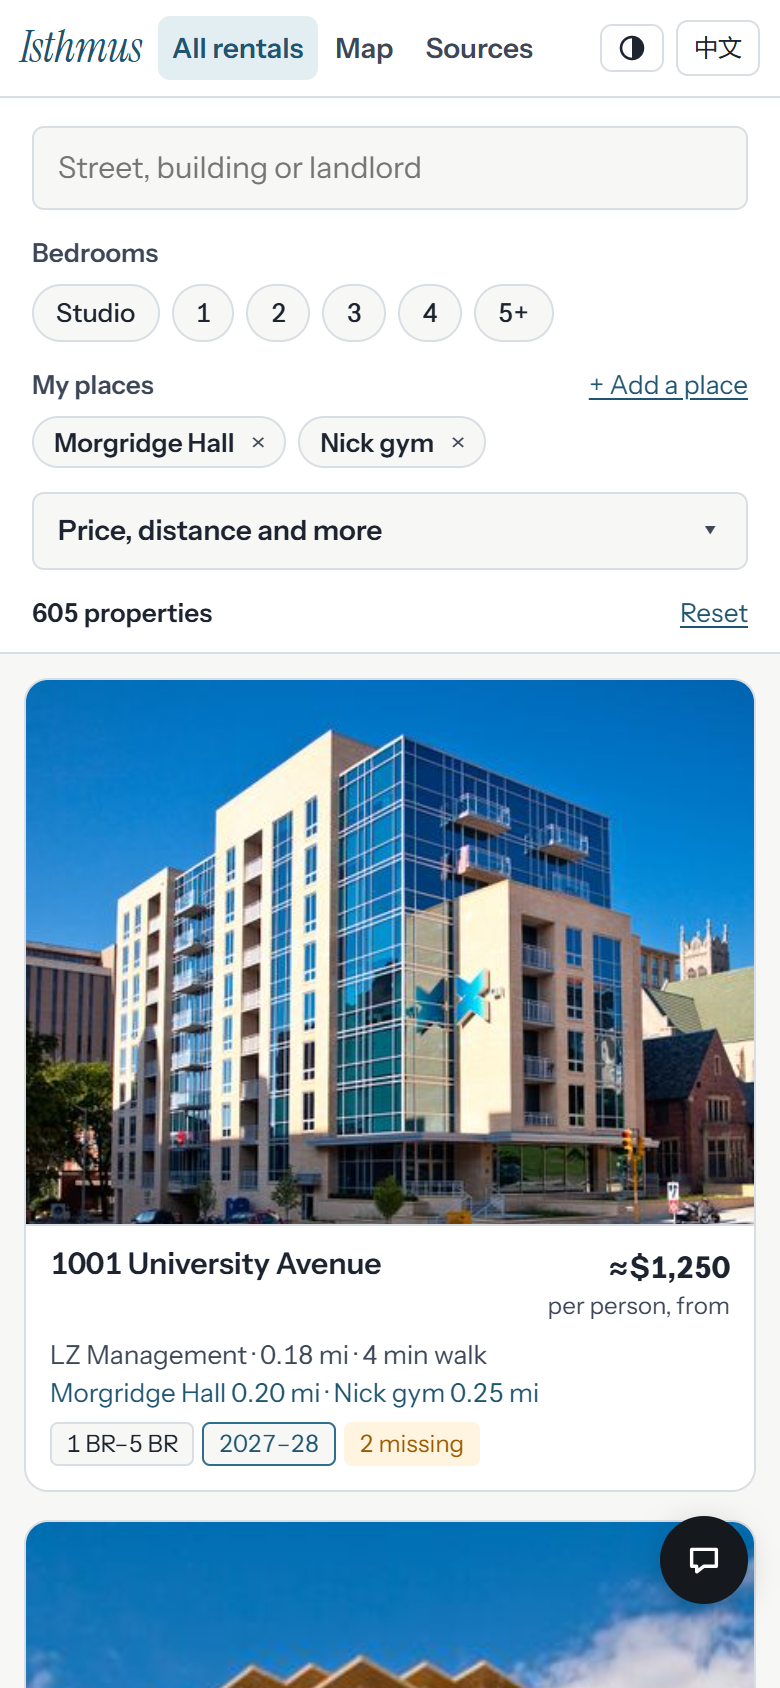
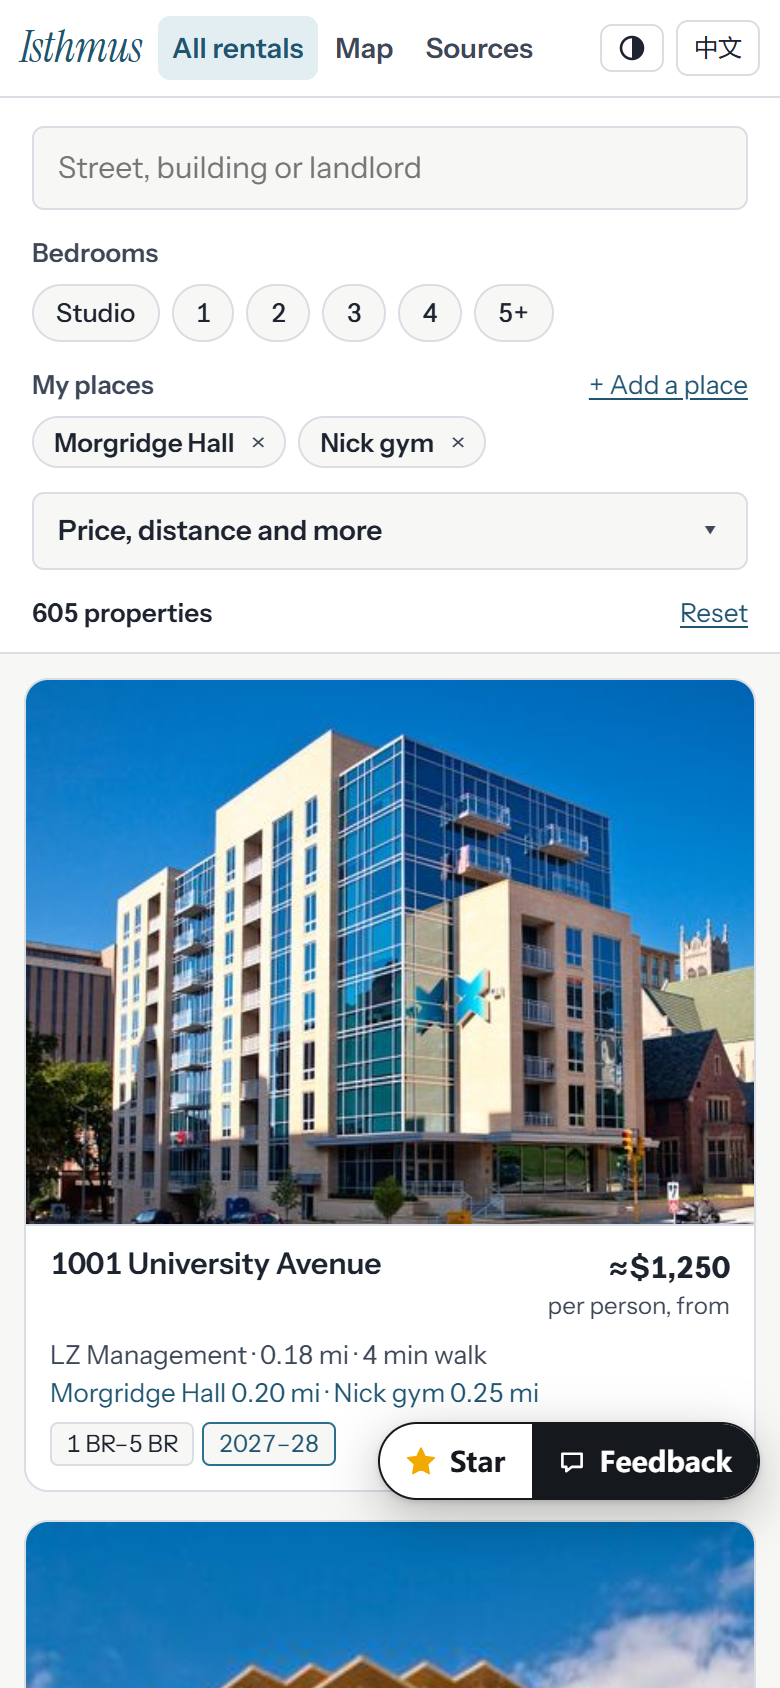
Update data 2026-10-01T22:24:10

Changed region(s): [[0.4308, 0.8318, 0.9846, 0.955]]

diff --git a/app.js b/app.js
@@ -59,13 +59,13 @@
   const ZHF = {
     dist_lbl: v => `距离 ≤ <b>${v} 英里</b>`, count: n => `${n} 个物业`,
     from: '起', per_person: '/人', per_unit: '/月', no_price: '未公开价格', walk: (m, mi, r) => `步行约 <b>${m} 分钟</b>（直线 ${mi} 英里）到 ${r}`,
-    gaps: n => `${n} 项缺失`, not_stated: '未说明',
+    not_stated: '未说明',
   };
   const ENF = {
     dist_lbl: v => `Within <b>${v} mi</b> of`, count: n => `${n} ${n === 1 ? 'property' : 'properties'}`,
     from: 'from', per_person: '/person', per_unit: '/mo', no_price: 'No price posted',
     walk: (m, mi, r) => `About <b>${m} min</b> walk (${mi} mi straight line) to ${r}`,
-    gaps: n => `${n} missing`, not_stated: 'Not stated',
+    not_stated: 'Not stated',
   };
   let lang = safeGet('lang') || 'en';
   const EN_TEXT = {};
@@ -414,11 +414,11 @@
     return s.length > 3 ? `${f(s[0])}–${f(s[s.length - 1])}` : s.map(f).join(', ');
   }
 
-  // Lines and tags shared by the map's list and the card grid
+  // Lines and tags shared by the map's list and the card grid; what is missing shows only in a property's detail
   const subHTML = p => (p.name && p.address ? `<span>${esc(p.address)}</span>` : '')
     + `<span>${p.landlord ? esc(p.landlord) + ' · ' : ''}<span class="nw">${distLabel(p._d)}</span></span>`
     + placeDistLine(p);
-  const tagsHTML = p => `${sortChip(p)}${bedsSummary(p._beds) ? `<span class="tag">${esc(bedsSummary(p._beds))}</span>` : ''}${p._2728 ? '<span class="tag t2728">2027–28</span>' : ''}${p._stale ? `<span class="tag gap">${lang === 'zh' ? '可能过期' : 'May be outdated'}</span>` : ''}${p._unv ? `<span class="tag gap">${lang === 'zh' ? '计价未核实' : 'Price basis unconfirmed'}</span>` : ''}${p._gapsN ? `<span class="tag gap">${F().gaps(p._gapsN)}</span>` : ''}`;
+  const tagsHTML = p => `${sortChip(p)}${bedsSummary(p._beds) ? `<span class="tag">${esc(bedsSummary(p._beds))}</span>` : ''}${p._2728 ? '<span class="tag t2728">2027–28</span>' : ''}${p._stale ? `<span class="tag gap">${lang === 'zh' ? '可能过期' : 'May be outdated'}</span>` : ''}${p._unv ? `<span class="tag gap">${lang === 'zh' ? '计价未核实' : 'Price basis unconfirmed'}</span>` : ''}`;
   const emptyText = () => searchErr ? esc(apiErrText(searchErr)) : lang === 'zh' ? '没有符合条件的物业。放宽价格或距离，或点“重置”。' : 'Nothing matches. Widen the price or distance, or press Reset.';
   const moreText = () => lang === 'zh' ? `再显示 ${Math.min(60, total - current.length)} 个（共 ${total} 个）` : `Show ${Math.min(60, total - current.length)} more (of ${total})`;
 

diff --git a/index.html b/index.html
@@ -168,7 +168,7 @@
 <script src="data/config.js?v=36a0155d"></script>
 <script src="engine.js?v=fce5e301"></script>
 <script src="guard-client.js?v=9af92d3c"></script>
-<script src="app.js?v=ec18cb4b"></script>
+<script src="app.js?v=373e5141"></script>
 <script src="feedback.js?v=f6ff8df4" data-site="rentals" data-star="WEBGRS/madison-rentals" data-float-bottom-narrow="94" data-narrow-max="860" defer></script>
 </body>
 </html>
